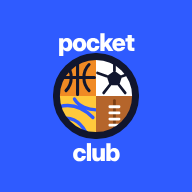
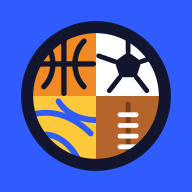
Alpha 3.5.1 : nouvelle icône (ballon multisport seul sur carré bleu), version 3.5.1

diff --git a/sw.js b/sw.js
@@ -1,5 +1,5 @@
 // Pocket Club · l'application s'ouvre même sans réseau (les données reviennent de Supabase avec le réseau)
-const CACHE = 'pc-alpha-3.5.0';
+const CACHE = 'pc-alpha-3.5.1';
 const SHELL = ['./', 'index.html', 'style.css', 'app.js', 'config.js', 'js/core.js', 'js/ui.js', 'js/auth.js', 'js/accueil.js', 'js/agenda.js', 'js/messages.js', 'js/equipe.js', 'js/joueur.js', 'js/club.js', 'js/compte.js', 'js/importer.js', 'js/coach.js', 'js/vie.js', 'js/notif.js', 'js/profils.js', 'js/convoc.js', 'js/v35.js', 'manifest.webmanifest', 'icon.svg', 'icon-192.png', 'icon-512.png', 'badge-96.png', 'icon-maskable-512.png', 'icon-maskable-192.png', 'apple-touch-icon.png'];
 self.addEventListener('install', (e) => { e.waitUntil(caches.open(CACHE).then((c) => c.addAll(SHELL)).then(() => self.skipWaiting())); });
 self.addEventListener('activate', (e) => { e.waitUntil(caches.keys().then((ks) => Promise.all(ks.filter((k) => k !== CACHE).map((k) => caches.delete(k)))).then(() => self.clients.claim())); });

diff --git a/config.js b/config.js
@@ -5,7 +5,7 @@ export const BRAND = { name: 'Pocket Club', word1: 'p', word2: 'cket', word3: 'c
 // les données sont protégées par les règles d'accès (RLS) de la base.
 export const SUPABASE_URL = 'https://rmdszovbpmagtvugfrpr.supabase.co';
 export const SUPABASE_KEY = 'sb_publishable_KsSQGA_bD3QSpX1vjnYjUw_eYBXXJ2u';
-export const VERSION = 'alpha 3.5.0';
+export const VERSION = 'alpha 3.5.1';
 // Alpha 3.2.5 · profils de test : liste déroulante « Profil de test » visible seulement quand on est connecté avec un de ces comptes.
 // Les adresses ne sont pas des secrets (aucun mot de passe ici). Pour ajouter un profil : une ligne.
 export const SWITCH_PROFILES = [

diff --git a/README.md b/README.md
@@ -1,4 +1,4 @@
-# Pocket Club (nom provisoire) · alpha 3.5.0
+# Pocket Club (nom provisoire) · alpha 3.5.1
 
 Application web installable (PWA) pour les clubs sportifs : agenda avec réponses « Je viens / Je ne viens pas », appel, fiches joueurs, licences et cotisations, groupes d'échange (messages en direct, sondages), équipes, membres, corbeille de 30 jours.
 
@@ -29,6 +29,10 @@ Application web installable (PWA) pour les clubs sportifs : agenda avec réponse
 - `tests/ecrans.py` : parcours dans un navigateur sans écran, avec le faux client `tests/faux_supabase.js` (213 tests), dont l'import des listes fictives de `tests/fichiers/` (fabriquées par `fabriquer.py`).
 
 Toutes les personnes des tests sont fictives.
+
+## Alpha 3.5.1
+
+Pas de changement de base : aucun script Supabase à lancer. Nouvelle icône de l'application : ballon multisport seul sur carré bleu #2F5BFF, sans texte (icônes any, maskable avec le ballon dans la zone sûre, apple-touch-icon). Livrée sans relancer les tests.
 
 ## Alpha 3.5.0
 
